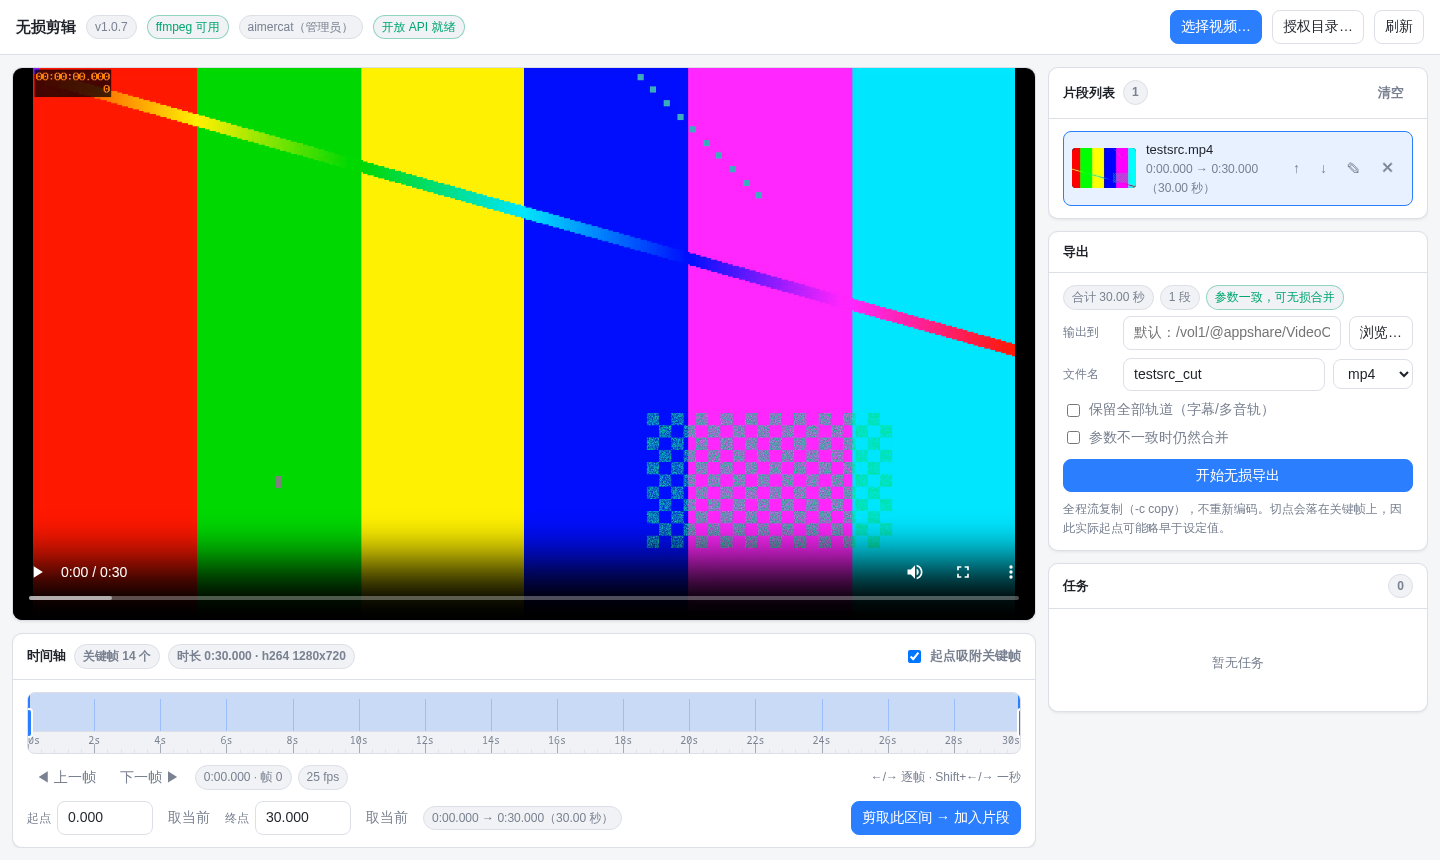
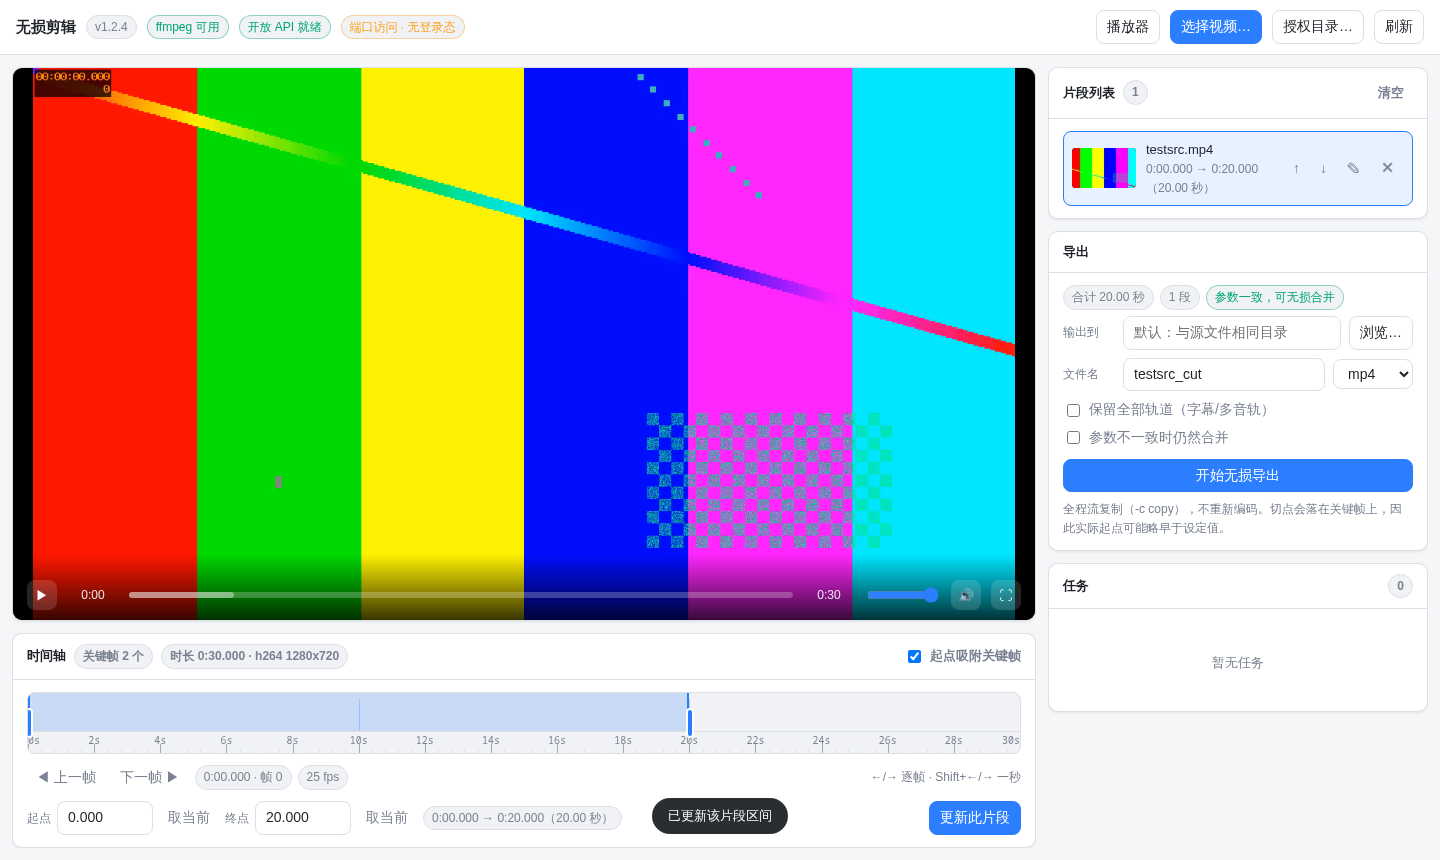
docs: 更新 1.2.4 界面截图（testsrc 演示片），README 版本号改到 1.2.4

diff --git a/README.md b/README.md
@@ -4,7 +4,7 @@
 
 在飞牛文件管理器里选中视频 → 右键 → **打开方式 → 无损剪辑**，就能直接打开这个工具：拖时间轴、按关键帧标记区间、无损剪切；也可以把多个视频首尾相接合并成一个文件。全程流复制（`-c copy`），**不重新编码、不损失画质、速度接近磁盘拷贝**。
 
-当前版本：**1.1.1**　　运行要求：**fnOS ≥ 1.1.3100**
+当前版本：**1.2.4**　　运行要求：**fnOS ≥ 1.1.3100**
 
 > 项目地址：<https://github.com/aimercat1994/fnos-videocut>　·　问题反馈与建议请提 [Issue](../../issues)
 
@@ -13,8 +13,6 @@
 双击文件时先进入播放器界面，点「剪辑」再展开剪辑区：
 
 ![播放器界面](docs/screen-player.png)
-
-![打开方式小窗](docs/screen-700.png)
 
 ---
 
